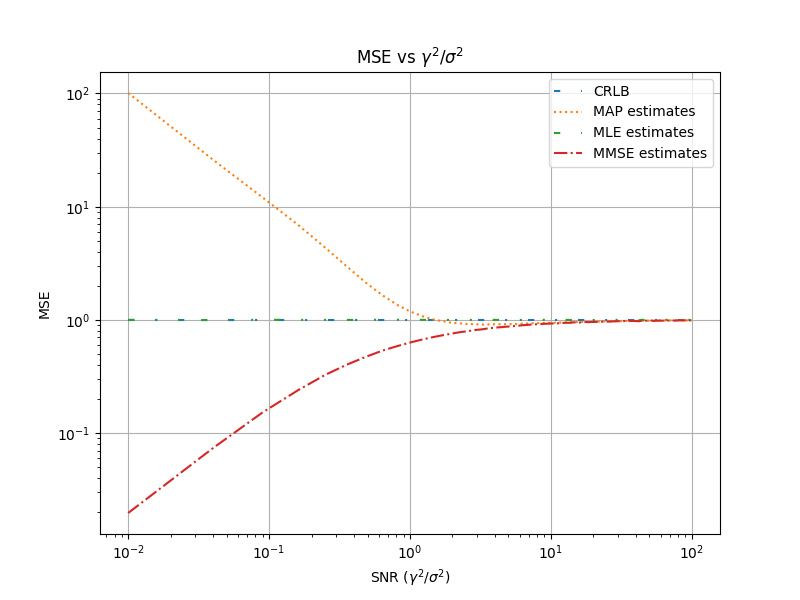
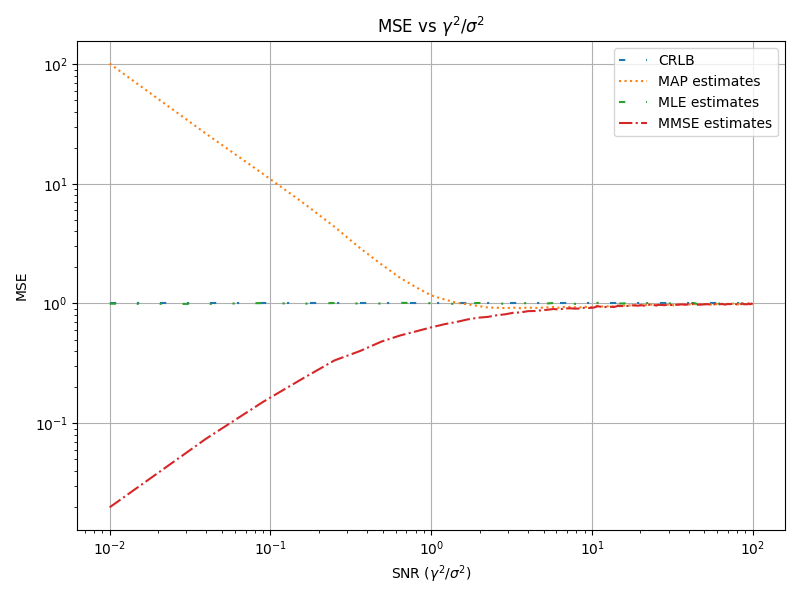
update

diff --git a/simulations.py b/simulations.py
@@ -10,7 +10,7 @@ from helpers import *
 sigma = 1
 gamma_list = np.arange(0.1, 10.1, 0.1) # gamma from 0.1 to 10 with 0.1 spacing
 N_sims = 200
-N_data = 2000
+N_data = 200
 
 # runs
 crlb_ = crlb(sigma, N_data)
@@ -56,6 +56,7 @@ plt.xlabel("SNR ($\gamma^{2}/\sigma^{2}$)")
 plt.ylabel("MSE")
 plt.grid(True)
 plt.title("MSE vs $\gamma^{2}/\sigma^{2}$")
+plt.tight_layout()
 # plt.show()
 plt.savefig("sim_1.png")
 
@@ -109,5 +110,6 @@ plt.xlabel("# data points")
 plt.ylabel("MSE")
 plt.grid(True)
 plt.title(f"MSE vs #data points - $\gamma$={gamma}")
+plt.tight_layout()
 # plt.show()
 plt.savefig("sim_2.png")

diff --git a/simulations_hyperparams.py b/simulations_hyperparams.py
@@ -82,6 +82,7 @@ plt.xlabel("SNR ($\gamma^{2}/\sigma^{2}$)")
 plt.ylabel("MSE")
 plt.grid(True)
 plt.title("MSE vs $\gamma^{2}/\sigma^{2}$")
+plt.tight_layout()
 # plt.show()
 plt.savefig("sim_1_hyperparam.png")
 
@@ -156,5 +157,6 @@ plt.xlabel("# data points")
 plt.ylabel("MSE")
 plt.grid(True)
 plt.title(f"MSE vs #data points - $\gamma$={gamma}")
+plt.tight_layout()
 # plt.show()
 plt.savefig("sim_2_hyperparam.png")
